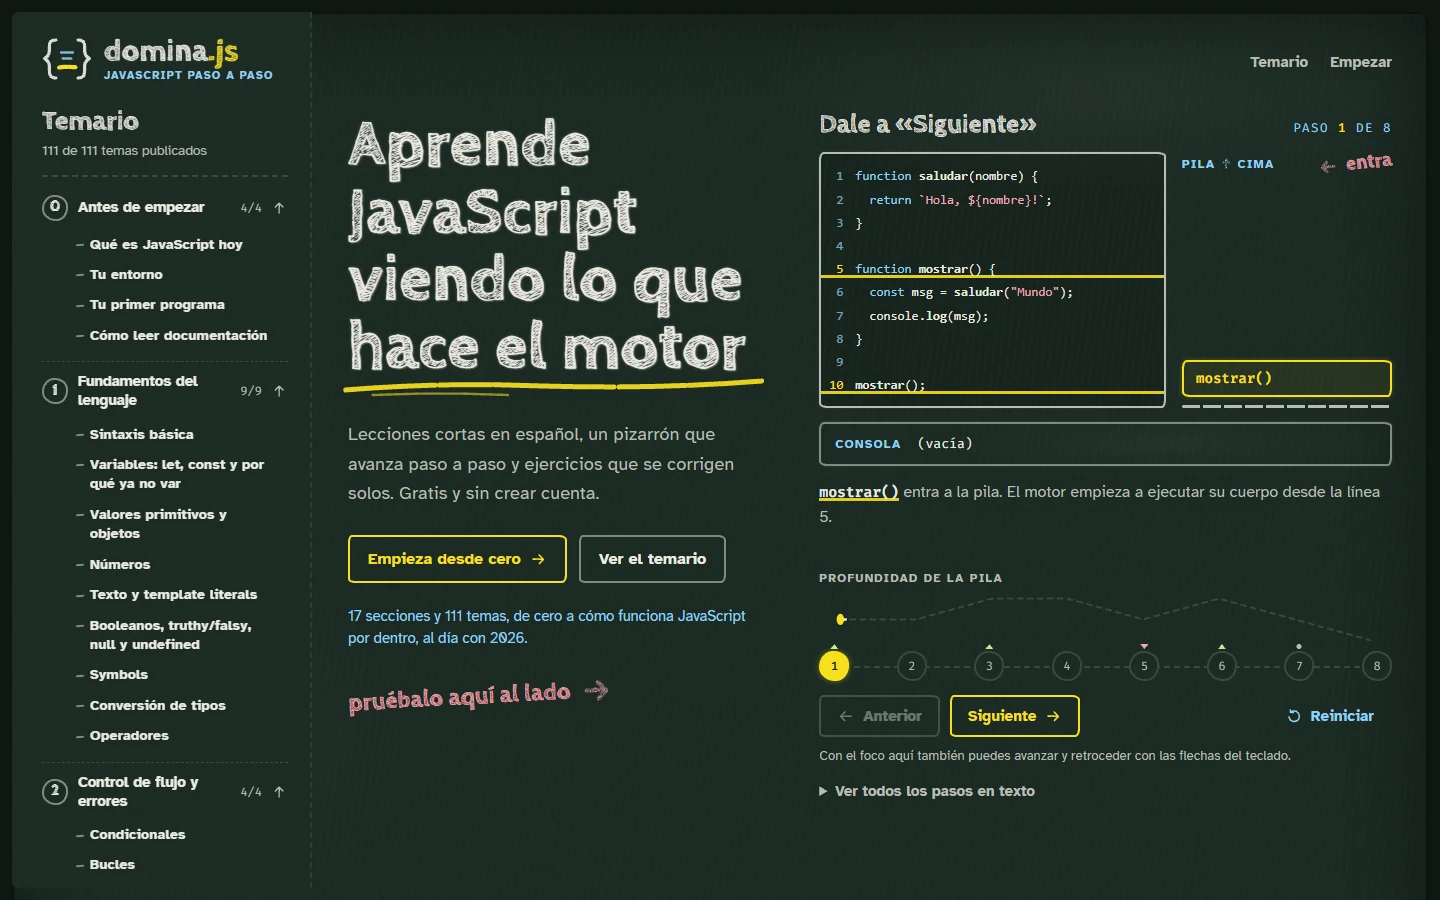
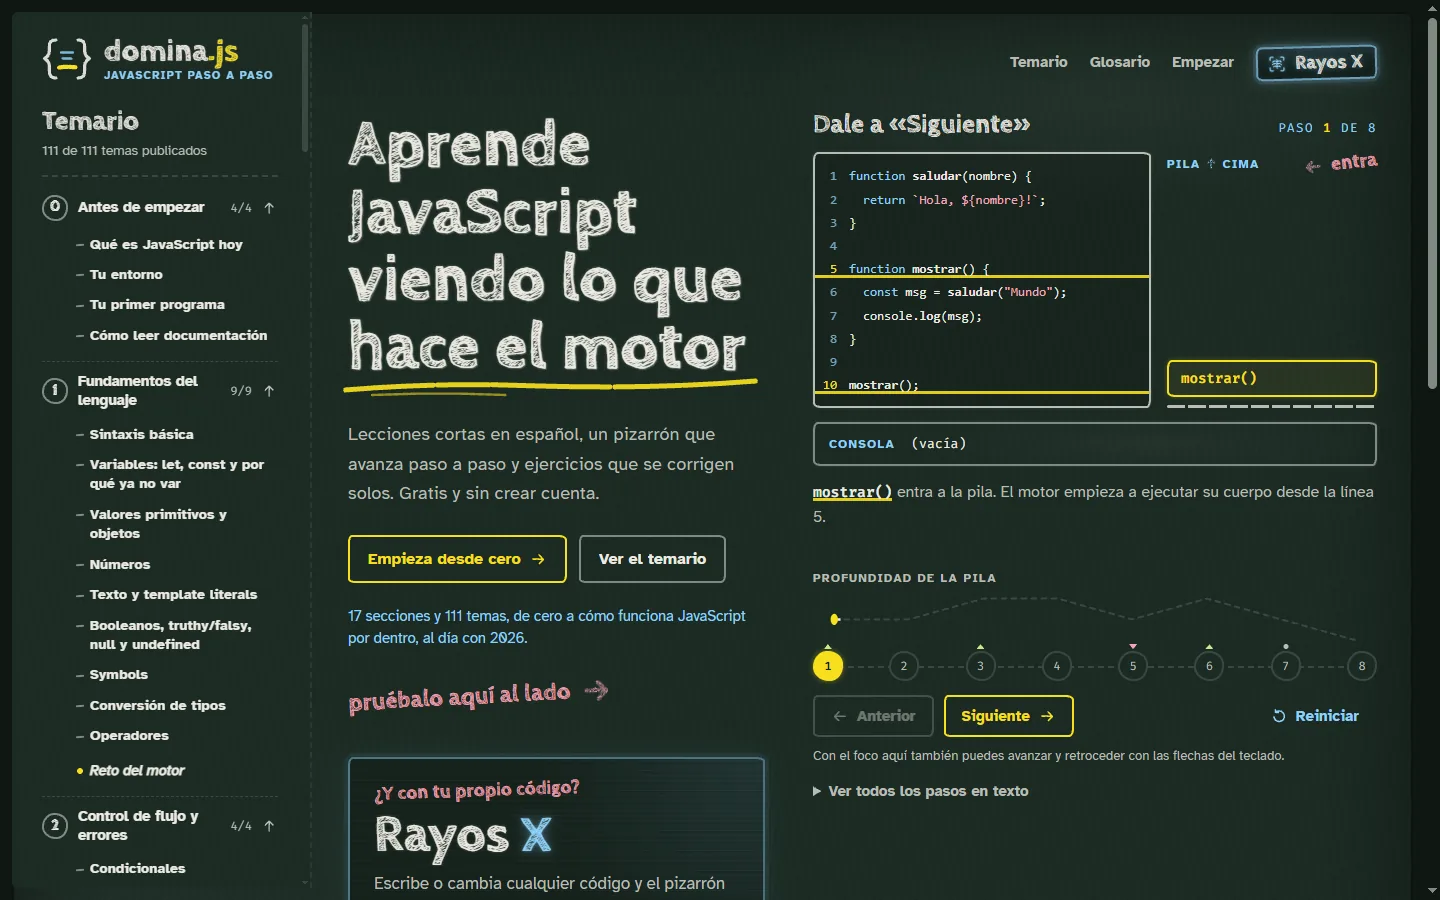
Licencias y README al día con capturas nuevas
- LICENSE: MIT para el código. LICENSE-CONTENIDO.md: CC BY 4.0 para el
  contenido educativo. Las fuentes siguen con su OFL.
- README: Rayos X, Reto del motor, glosario, código coloreado, cifras al día
  (464 ejercicios, 119 términos), estructura y sección de licencias.
- Capturas nuevas de Rayos X, el Reto del motor y el glosario; portada y
  temario rehechas.

diff --git a/LICENSE-CONTENIDO.md b/LICENSE-CONTENIDO.md
@@ -1,0 +1,21 @@
+# Licencia del contenido
+
+El **contenido educativo** de domina-js se publica bajo la licencia
+[Creative Commons Atribución 4.0 Internacional (CC BY 4.0)](https://creativecommons.org/licenses/by/4.0/deed.es).
+
+Es contenido educativo:
+
+- las lecciones y los retos: `src/content/`
+- los ejercicios: `src/data/ejercicios/`
+- los pasos de los pizarrones: `src/data/visualizaciones.ts`
+- el glosario: `src/data/glosario.ts`
+- los pizarrones y desafíos de Rayos X: `src/data/rayos-x.ts`
+- la documentación y las capturas: `docs/`
+
+Puedes copiarlo, adaptarlo, traducirlo y usarlo en tus clases, también con fines comerciales, siempre que **des crédito**. Para eso, nombra a domina-js, enlaza al sitio o al repositorio e indica si hiciste cambios. Por ejemplo:
+
+> Basado en [domina-js](https://domina-js.pages.dev), de Renzo Osorio Valdez, con licencia [CC BY 4.0](https://creativecommons.org/licenses/by/4.0/deed.es).
+
+El **código** del sitio (componentes, scripts, estilos y herramientas) usa la licencia MIT: ver [`LICENSE`](LICENSE).
+
+Las **fuentes** tienen su propia licencia, la SIL Open Font License 1.1: ver [`src/fuentes/OFL.txt`](src/fuentes/OFL.txt) y la sección «Fuentes» del README.
